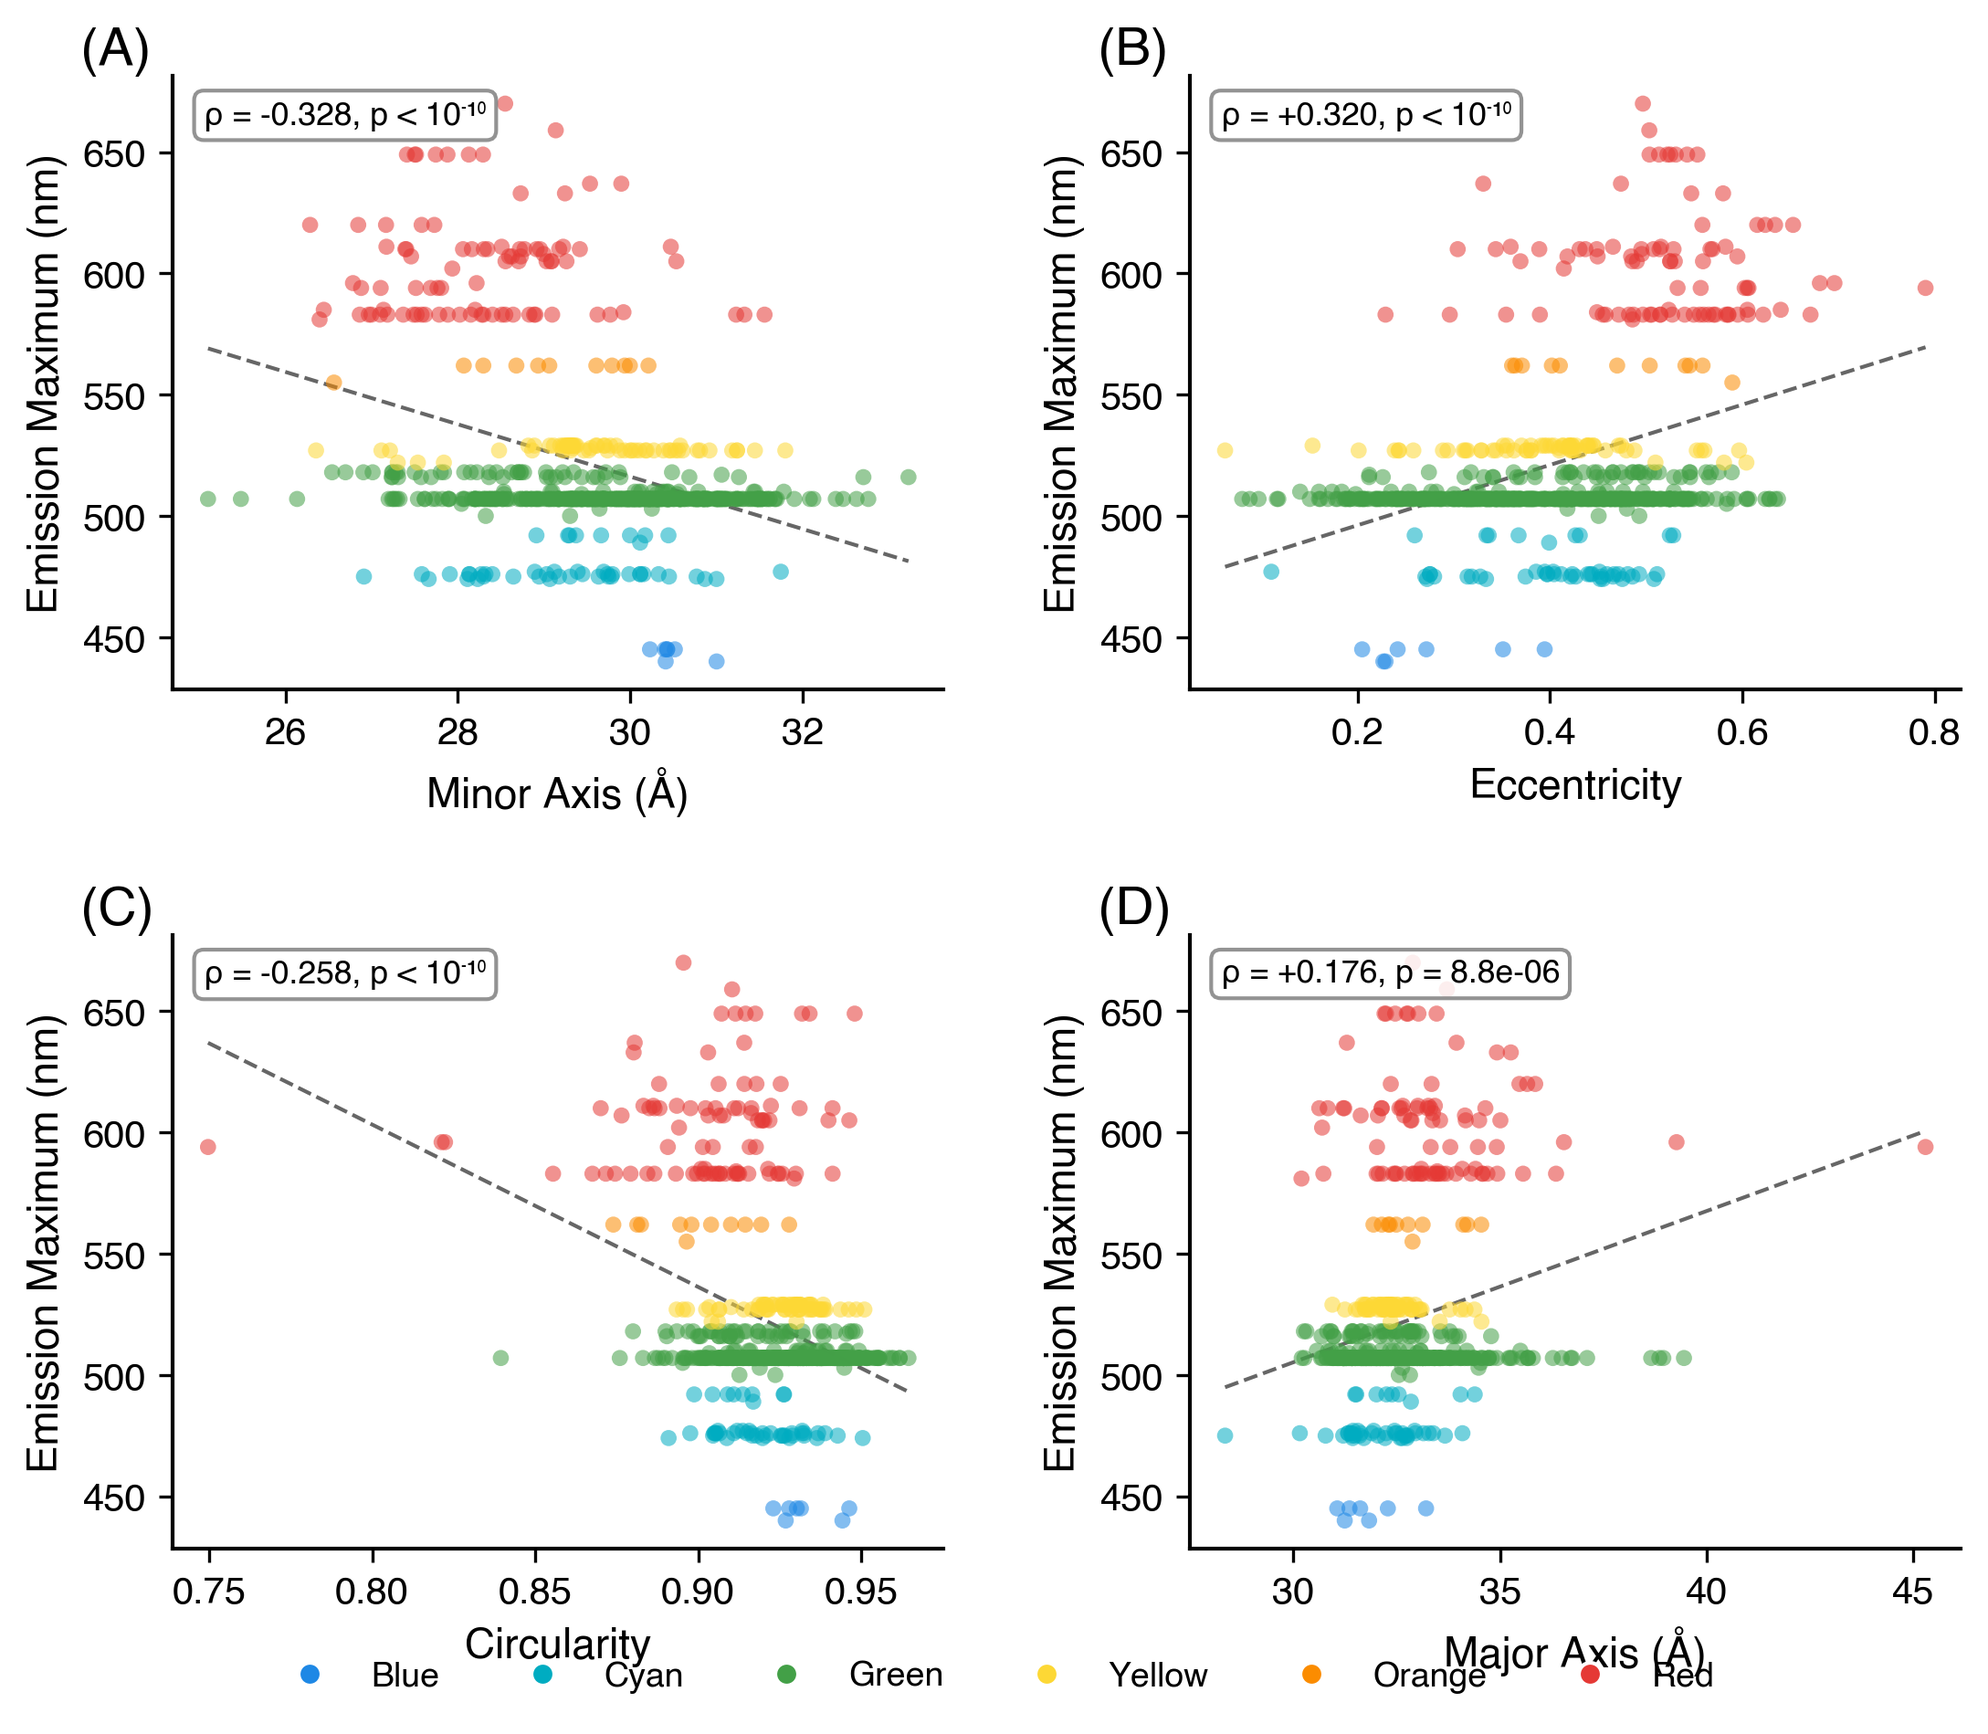
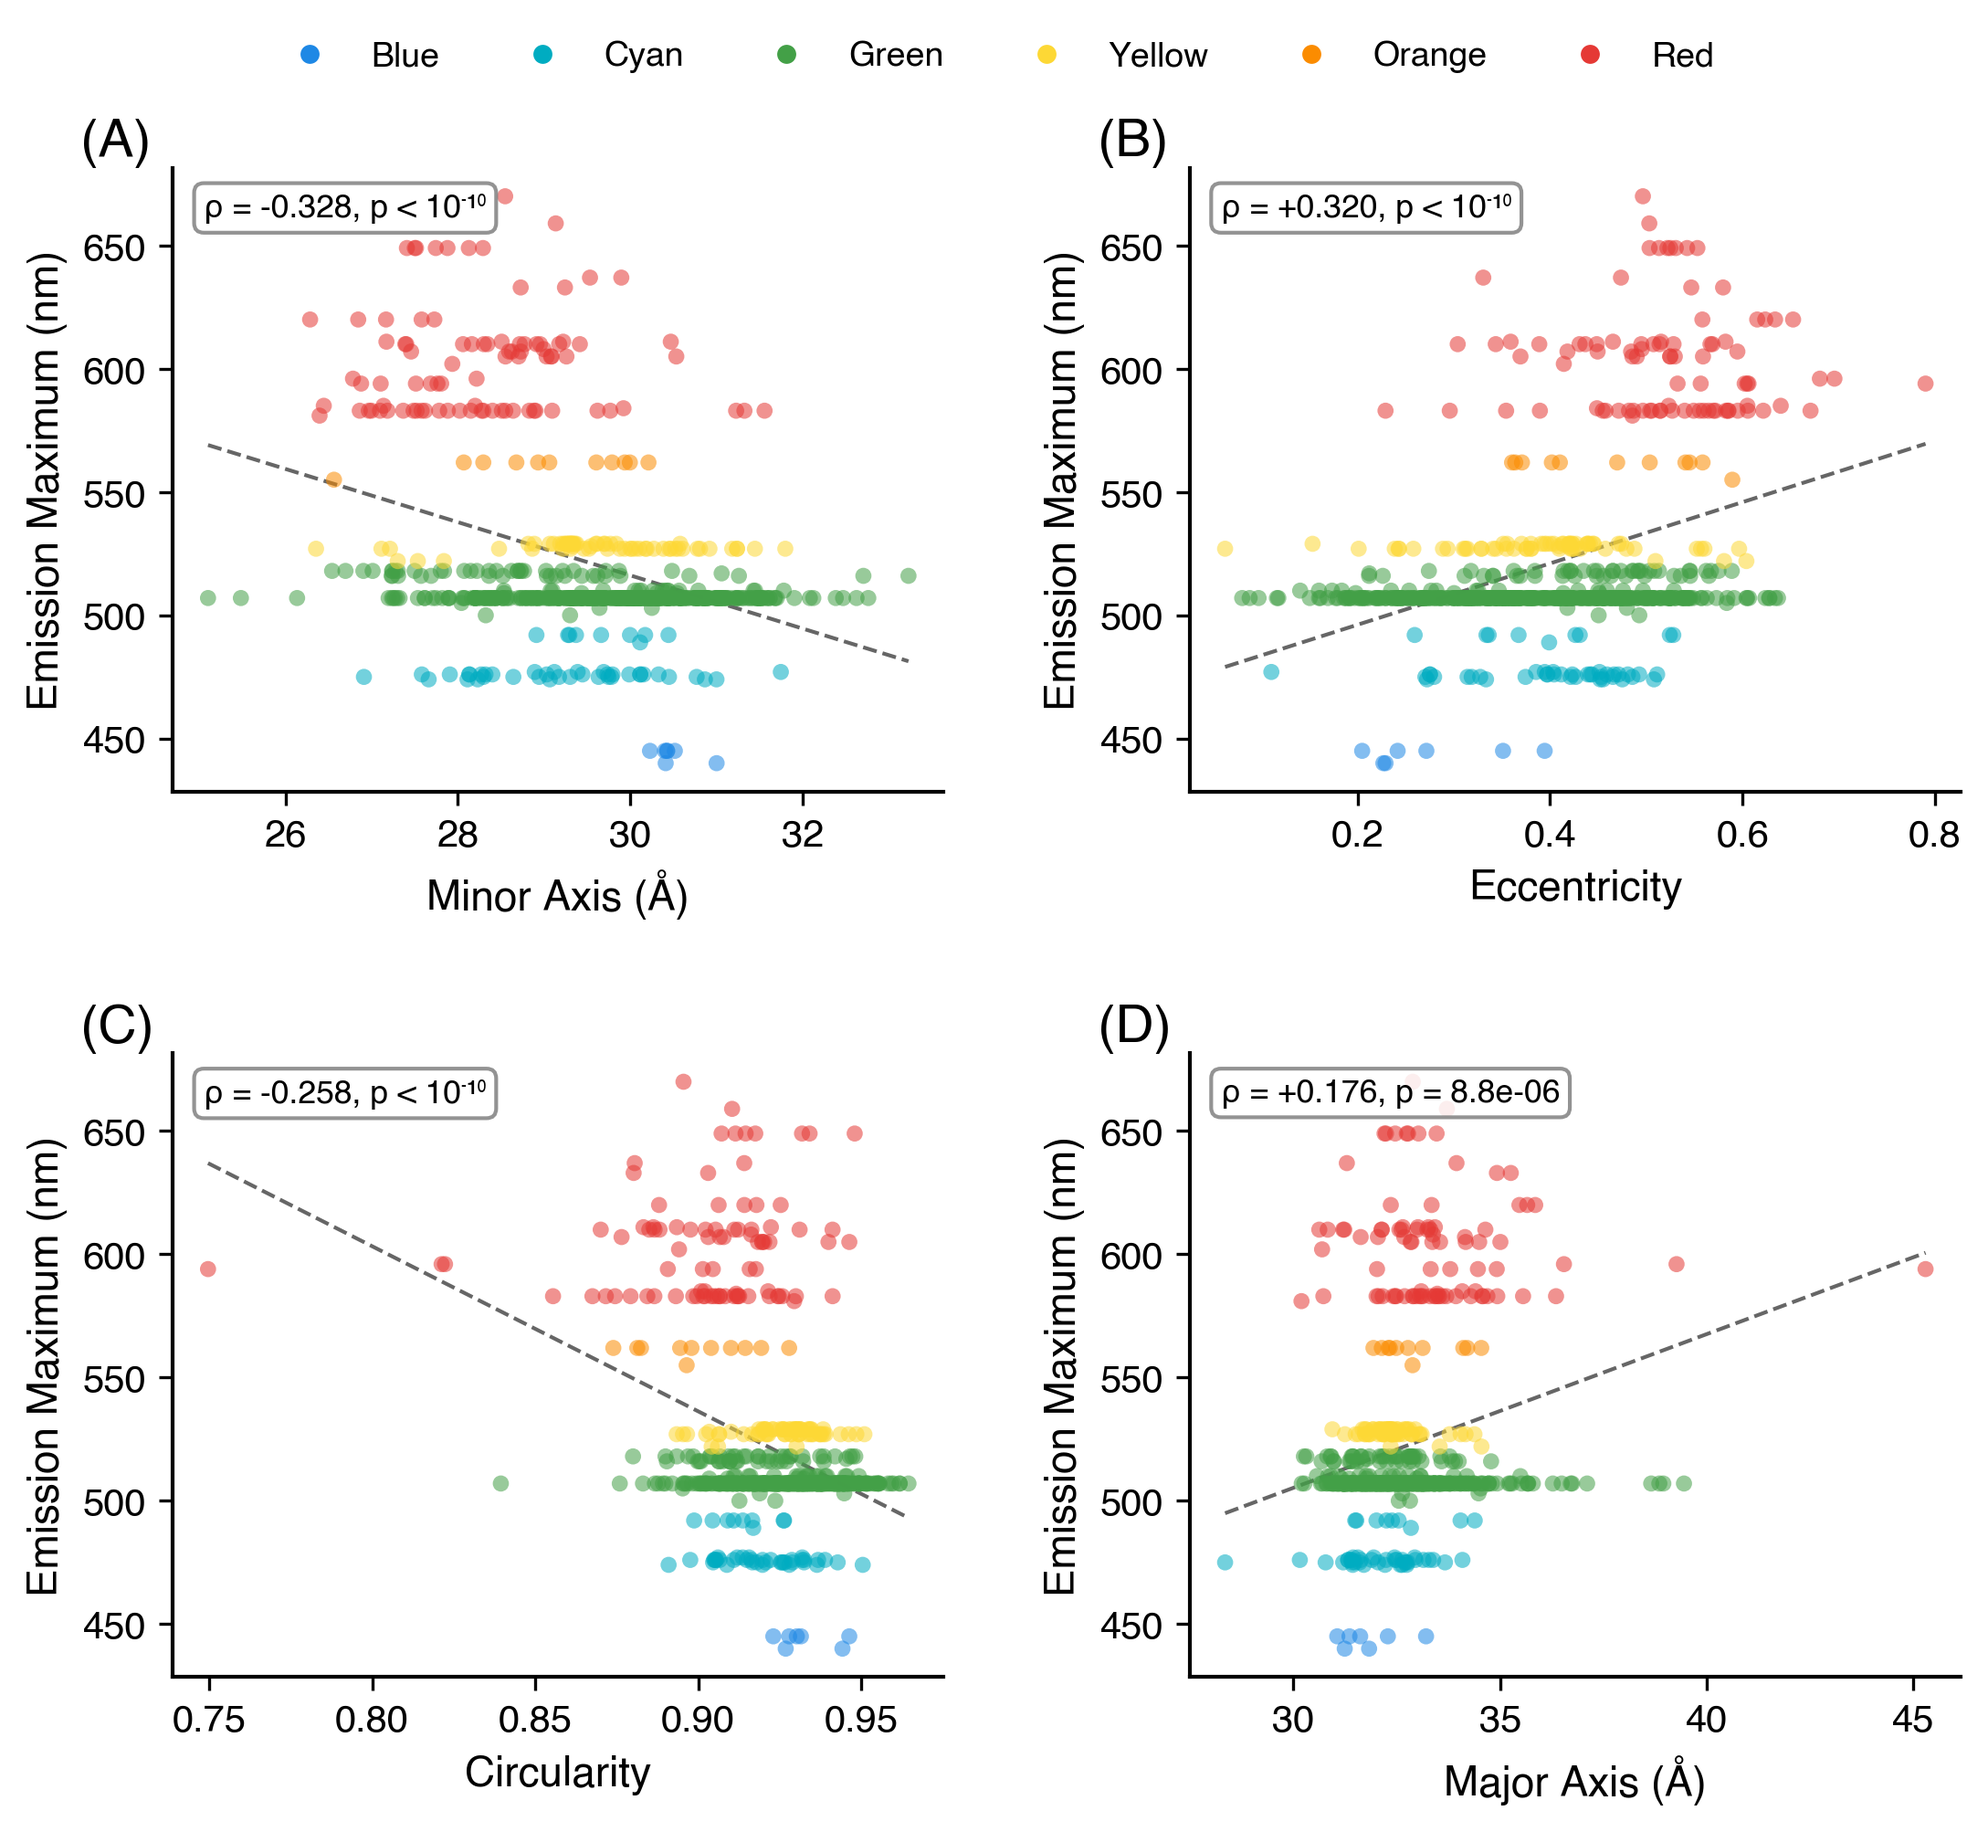
Move Figure 1 legend to top to clear bottom-row x-axis labels
The color-class legend was previously bottom-centered and collided
with the x-axis labels of panels C (Circularity) and D (Major Axis).
Moving the legend above the panels removes the overlap; figure
height bumped slightly to accommodate it.

diff --git a/figures/pub_figures/generate_all_figures.py b/figures/pub_figures/generate_all_figures.py
@@ -346,8 +346,11 @@ metrics_fig1 = [
     ('major_axis',   'Major Axis (\u00c5)',                  '(D)'),
 ]
 
-fig, axes = plt.subplots(2, 2, figsize=(7.5, 6.4))
-fig.subplots_adjust(hspace=0.40, wspace=0.32, top=0.94, bottom=0.10, left=0.10, right=0.97)
+# Legend goes ABOVE the panels (between title strip and row 1) so it
+# never collides with the bottom row's x-axis labels.
+fig, axes = plt.subplots(2, 2, figsize=(7.5, 6.8))
+fig.subplots_adjust(hspace=0.42, wspace=0.32,
+                    top=0.90, bottom=0.09, left=0.10, right=0.97)
 axes = axes.flatten()
 
 sub_em = df.dropna(subset=['em_max'])
@@ -378,12 +381,12 @@ for i, (col, xlabel, lbl) in enumerate(metrics_fig1):
     remove_top_right(ax)
     panel_label(ax, lbl)
 
-# Legend below figure
 legend_handles = [Line2D([0], [0], marker='o', color='w',
                          markerfacecolor=CLASS_COLORS[cc], markersize=6,
                          label=cc.capitalize()) for cc in CLASS_ORDER]
-fig.legend(handles=legend_handles, loc='lower center', ncol=6,
-           frameon=False, fontsize=9, bbox_to_anchor=(0.5, 0.0))
+fig.legend(handles=legend_handles, loc='upper center', ncol=6,
+           frameon=False, fontsize=9,
+           bbox_to_anchor=(0.5, 0.985))
 
 path = out_dir + 'fig01_emission_scatter.png'
 fig.savefig(path, dpi=300, bbox_inches='tight', facecolor='white')
